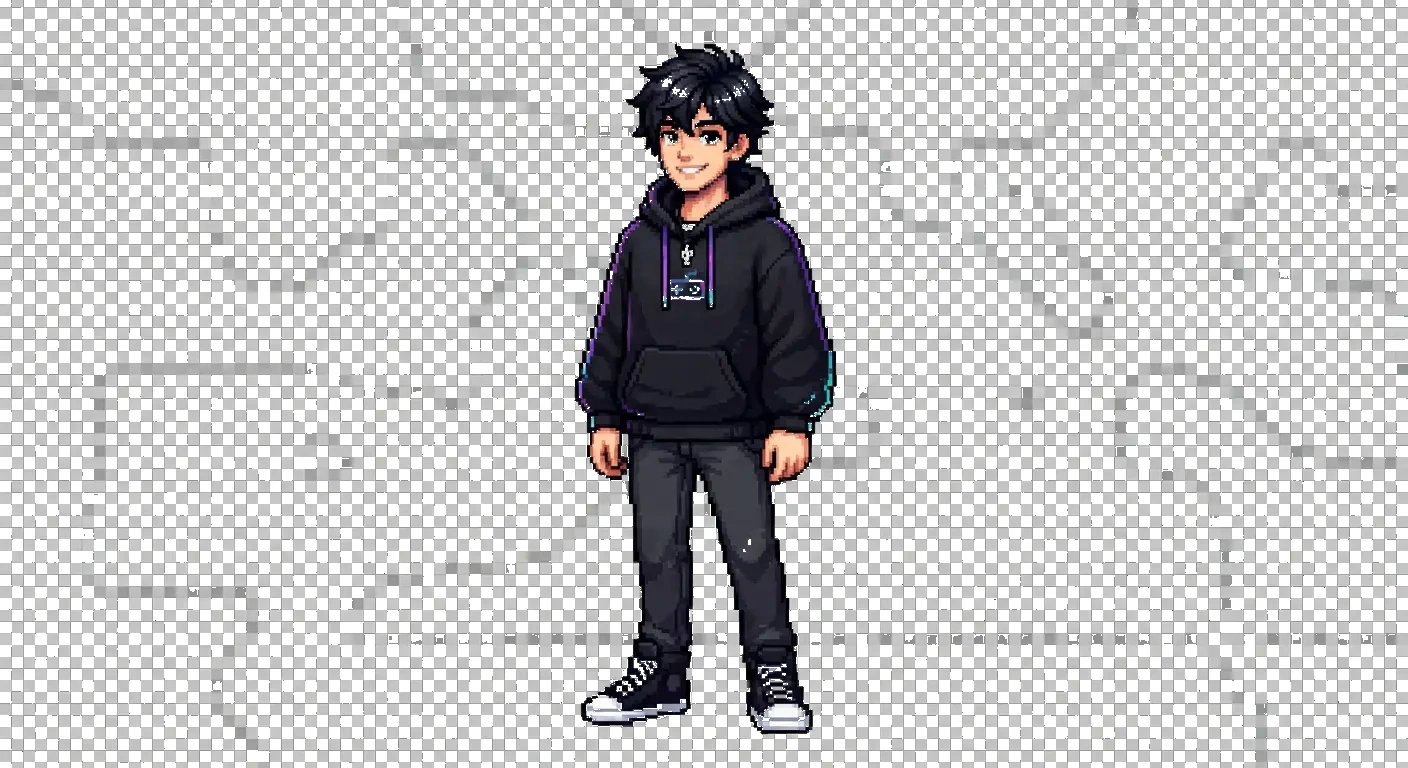
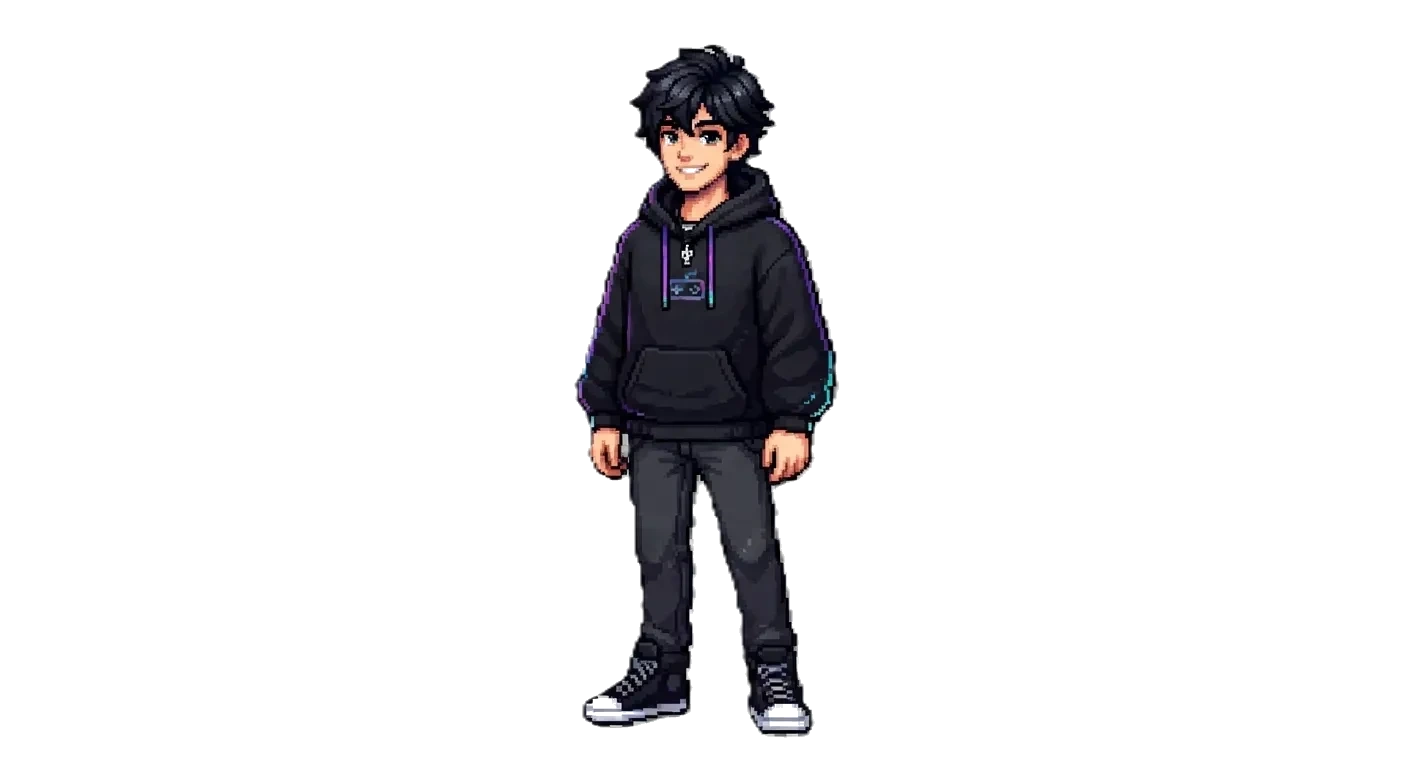
feat: add motion to all images, left-right tech stack layout

diff --git a/src/components/TechStackSection.tsx b/src/components/TechStackSection.tsx
@@ -1,4 +1,5 @@
-import { techStack } from "../data/portfolio";
+import { motion } from "motion/react";
+import { techStack, siteConfig } from "../data/portfolio";
 import { ScrollReveal } from "./ScrollReveal";
 
 function TechIcon({ name }: { name: string }) {
@@ -42,37 +43,52 @@ export function TechStackSection() {
   return (
     <section id="tech-stack" className="py-20 sm:py-28 dot-grid">
       <div className="max-w-6xl mx-auto px-4 sm:px-6">
-        <ScrollReveal>
-          <div className="text-center mb-12">
-            <span className="retro-font text-[10px] text-primary block mb-3">
-              Tech Stack
-            </span>
-            <h2 className="text-2xl sm:text-3xl lg:text-4xl font-bold mb-4">
-              Tools I Use
-            </h2>
-            <p className="text-text-secondary max-w-xl mx-auto text-sm sm:text-base">
-              I build my projects using modern technologies for faster, cleaner,
-              and scalable web applications.
-            </p>
-          </div>
-        </ScrollReveal>
+        <div className="grid lg:grid-cols-[1fr_2fr] gap-10 items-start">
+          {/* Left - Header + Avatar */}
+          <ScrollReveal direction="left">
+            <div className="lg:sticky lg:top-24">
+              <span className="retro-font text-[10px] text-primary block mb-3">
+                Tech Stack
+              </span>
+              <h2 className="text-2xl sm:text-3xl lg:text-4xl font-bold mb-4">
+                Tools I Use
+              </h2>
+              <p className="text-text-secondary text-sm sm:text-base mb-6">
+                I build my projects using modern technologies for faster,
+                cleaner, and scalable web applications.
+              </p>
+              <motion.img
+                src="/images/avatar.webp"
+                alt={siteConfig.name}
+                className="w-16 h-16 rounded-xl object-cover border border-border hidden lg:block"
+                animate={{ y: [0, -5, 0] }}
+                transition={{ duration: 3, repeat: Infinity, ease: "easeInOut" }}
+              />
+            </div>
+          </ScrollReveal>
 
-        <div className="grid grid-cols-2 sm:grid-cols-3 lg:grid-cols-4 gap-3 max-w-4xl mx-auto">
-          {techStack.map((tech, i) => (
-            <ScrollReveal key={tech.name} delay={i * 0.04}>
-              <div className="glow-border rounded-xl p-4 bg-bg-elevated hover:bg-bg-secondary hover:shadow-card-hover transition-all group h-full">
-                <div className="flex items-center gap-3 mb-2">
-                  <TechIcon name={tech.icon} />
-                  <span className="font-semibold text-sm text-text-main group-hover:text-primary transition-colors">
-                    {tech.name}
-                  </span>
-                </div>
-                <p className="text-xs text-text-secondary">
-                  {tech.description}
-                </p>
-              </div>
-            </ScrollReveal>
-          ))}
+          {/* Right - Tech Cards Grid */}
+          <div className="grid grid-cols-2 sm:grid-cols-3 gap-3">
+            {techStack.map((tech, i) => (
+              <ScrollReveal key={tech.name} delay={i * 0.04} direction="right">
+                <motion.div
+                  className="glow-border rounded-xl p-4 bg-bg-elevated hover:bg-bg-secondary hover:shadow-card-hover transition-all group h-full"
+                  whileHover={{ y: -4 }}
+                  transition={{ duration: 0.2 }}
+                >
+                  <div className="flex items-center gap-3 mb-2">
+                    <TechIcon name={tech.icon} />
+                    <span className="font-semibold text-sm text-text-main group-hover:text-primary transition-colors">
+                      {tech.name}
+                    </span>
+                  </div>
+                  <p className="text-xs text-text-secondary">
+                    {tech.description}
+                  </p>
+                </motion.div>
+              </ScrollReveal>
+            ))}
+          </div>
         </div>
       </div>
     </section>

diff --git a/src/components/ContactSection.tsx b/src/components/ContactSection.tsx
@@ -2,6 +2,7 @@ import { useState } from "react";
 import { useForm } from "react-hook-form";
 import { zodResolver } from "@hookform/resolvers/zod";
 import { z } from "zod";
+import { motion } from "motion/react";
 import { Send, CheckCircle, Loader2 } from "lucide-react";
 import { siteConfig } from "../data/portfolio";
 import { ScrollReveal } from "./ScrollReveal";
@@ -61,25 +62,27 @@ export function ContactSection() {
 
                 {/* Decorative elements */}
                 <div className="hidden lg:flex items-end gap-4 mt-auto">
-                  <div className="animate-float">
-                    <img
-                      src="/images/avatar.webp"
-                      alt=""
-                      aria-hidden="true"
-                      className="w-12 h-12 rounded-lg object-cover border border-border"
-                    />
-                  </div>
+                  <motion.img
+                    src="/images/avatar.webp"
+                    alt=""
+                    aria-hidden="true"
+                    className="w-12 h-12 rounded-lg object-cover border border-border"
+                    animate={{ y: [0, -5, 0] }}
+                    transition={{ duration: 2.5, repeat: Infinity, ease: "easeInOut" }}
+                  />
                   <div className="glow-border rounded-lg p-3 bg-bg-secondary">
                     <p className="retro-font text-[7px] text-cyan">
                       Thanks for visiting!
                     </p>
                   </div>
-                  <img
+                  <motion.img
                     src="/images/decoration.webp"
                     alt=""
                     aria-hidden="true"
                     className="w-16 h-16 object-contain opacity-60"
                     loading="lazy"
+                    animate={{ y: [0, -4, 0], rotate: [0, 2, -2, 0] }}
+                    transition={{ duration: 3, repeat: Infinity, ease: "easeInOut" }}
                   />
                 </div>
               </div>

diff --git a/src/components/AboutSection.tsx b/src/components/AboutSection.tsx
@@ -1,3 +1,4 @@
+import { motion } from "motion/react";
 import { MapPin, Code, Gamepad2 } from "lucide-react";
 import { siteConfig } from "../data/portfolio";
 import { ScrollReveal } from "./ScrollReveal";
@@ -15,7 +16,11 @@ export function AboutSection() {
         <div className="grid lg:grid-cols-2 gap-12 items-center">
           {/* Left - Workspace Image */}
           <ScrollReveal direction="left">
-            <div className="relative rounded-xl overflow-hidden border border-border">
+            <motion.div
+              className="relative rounded-xl overflow-hidden border border-border"
+              whileHover={{ scale: 1.02 }}
+              transition={{ duration: 0.3 }}
+            >
               <img
                 src="/images/workspace.webp"
                 alt="Developer workspace at night"
@@ -23,16 +28,18 @@ export function AboutSection() {
                 loading="lazy"
               />
               <div className="absolute inset-0 bg-gradient-to-t from-bg-main/40 via-transparent to-transparent" />
-            </div>
+            </motion.div>
           </ScrollReveal>
 
           {/* Right - Content */}
           <ScrollReveal direction="right" delay={0.1}>
             <div className="flex items-center gap-3 mb-4">
-              <img
+              <motion.img
                 src="/images/avatar.webp"
                 alt={siteConfig.name}
                 className="w-8 h-8 rounded-md object-cover"
+                animate={{ y: [0, -3, 0] }}
+                transition={{ duration: 2, repeat: Infinity, ease: "easeInOut" }}
               />
               <span className="retro-font text-[10px] text-primary">
                 About Me

diff --git a/src/components/HeroSection.tsx b/src/components/HeroSection.tsx
@@ -79,19 +79,23 @@ export function HeroSection() {
           {/* Right - Image */}
           <motion.div
             className="hidden lg:block"
-            initial={{ opacity: 0, x: 30 }}
-            animate={{ opacity: 1, x: 0 }}
-            transition={{ duration: 0.7, delay: 0.2 }}
+            initial={{ opacity: 0, scale: 0.95 }}
+            animate={{ opacity: 1, scale: 1 }}
+            transition={{ duration: 0.8, delay: 0.2 }}
           >
-            <div className="relative rounded-xl overflow-hidden border border-border/50">
+            <motion.div
+              className="relative"
+              whileHover={{ scale: 1.01 }}
+              transition={{ duration: 0.4 }}
+            >
               <img
                 src="/images/hero-bg.webp"
                 alt="Pixel art fantasy landscape"
-                className="w-full h-auto"
+                className="w-full h-auto rounded-2xl shadow-pixel-glow"
                 loading="eager"
               />
-              <div className="absolute inset-0 bg-gradient-to-l from-transparent via-transparent to-bg-main/30" />
-            </div>
+              <div className="absolute inset-0 rounded-2xl bg-gradient-to-l from-transparent via-transparent to-bg-main/40" />
+            </motion.div>
           </motion.div>
         </div>
 

diff --git a/src/components/ProjectsSection.tsx b/src/components/ProjectsSection.tsx
@@ -1,3 +1,4 @@
+import { motion } from "motion/react";
 import { ExternalLink } from "lucide-react";
 import { projects, type Project } from "../data/portfolio";
 import { ScrollReveal } from "./ScrollReveal";
@@ -62,7 +63,11 @@ function ProjectThumbnail({ color, title }: { color: string; title: string }) {
 function ProjectCard({ project, index }: { project: Project; index: number }) {
   return (
     <ScrollReveal delay={index * 0.1}>
-      <div className="glow-border rounded-xl overflow-hidden bg-bg-elevated group hover:-translate-y-1 hover:shadow-card-hover transition-all duration-300">
+      <motion.div
+        className="glow-border rounded-xl overflow-hidden bg-bg-elevated group hover:shadow-card-hover transition-all duration-300"
+        whileHover={{ y: -6 }}
+        transition={{ duration: 0.25 }}
+      >
         <ProjectThumbnail color={project.color} title={project.title} />
         <div className="p-5">
           <h3 className="font-semibold text-text-main mb-2 group-hover:text-primary transition-colors">
@@ -89,7 +94,7 @@ function ProjectCard({ project, index }: { project: Project; index: number }) {
             <ExternalLink size={14} />
           </a>
         </div>
-      </div>
+      </motion.div>
     </ScrollReveal>
   );
 }

diff --git a/src/components/Footer.tsx b/src/components/Footer.tsx
@@ -1,3 +1,4 @@
+import { motion } from "motion/react";
 import { Mail } from "lucide-react";
 import { siteConfig, navLinks } from "../data/portfolio";
 import { GithubIcon, XIcon, LinkedinIcon } from "./SocialIcons";
@@ -15,10 +16,12 @@ export function Footer() {
       <div className="max-w-6xl mx-auto px-4 sm:px-6 py-10">
         <div className="flex flex-col sm:flex-row items-center justify-between gap-6">
           <div className="flex items-center gap-2">
-            <img
+            <motion.img
               src="/images/avatar.webp"
               alt={siteConfig.name}
               className="w-6 h-6 rounded-md object-cover"
+              whileHover={{ rotate: 10, scale: 1.1 }}
+              transition={{ duration: 0.2 }}
             />
             <span className="retro-font text-[8px] text-text-main">
               {siteConfig.name}

diff --git a/src/components/Header.tsx b/src/components/Header.tsx
@@ -35,10 +35,12 @@ export function Header() {
     >
       <nav className="max-w-6xl mx-auto px-4 sm:px-6 h-16 flex items-center justify-between">
         <a href="#home" className="flex items-center gap-2 group">
-          <img
+          <motion.img
             src="/images/avatar.webp"
             alt={siteConfig.name}
             className="w-7 h-7 rounded-md object-cover"
+            whileHover={{ rotate: 10, scale: 1.1 }}
+            transition={{ duration: 0.2 }}
           />
           <span className="retro-font text-[10px] text-text-main group-hover:text-primary transition-colors">
             {siteConfig.name}
